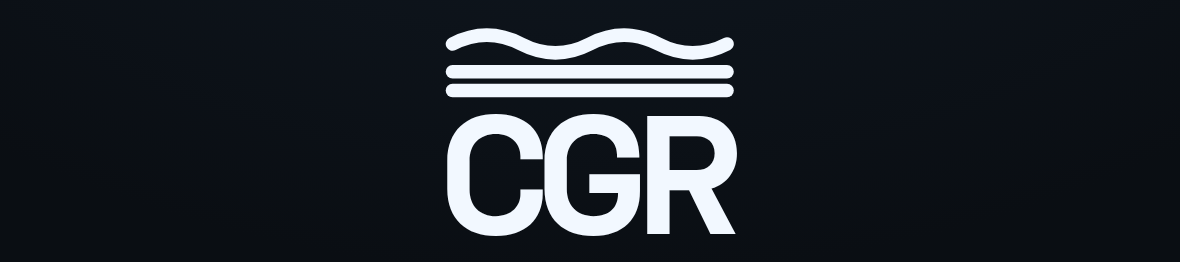
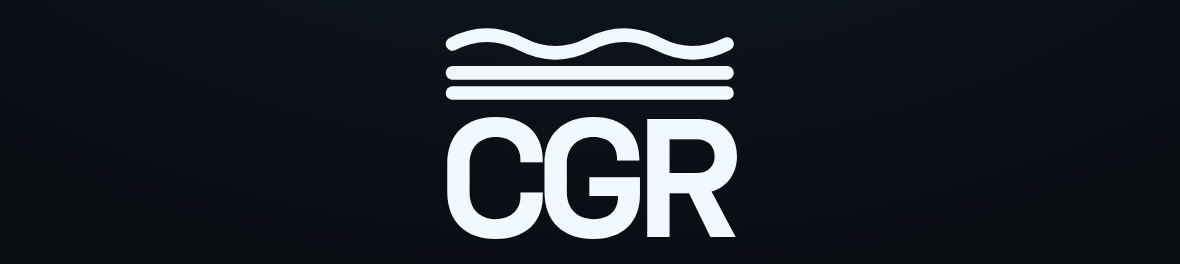
design(grade-lab): 5% wave gap, 5.5% line gap

diff --git a/design/grade-lab/lockup.js b/design/grade-lab/lockup.js
@@ -92,9 +92,9 @@ export function renderLockup(host, opts) {
   //   波浪↔波浪 = 1 个描边宽（两个波才分得开）
   //   波浪↔直线 = 半个描边宽（谷底到直线）
   //   直线↔直线 = 0.035 cap
-  // 波浪之间 4%，其余 4.5% —— 比等号稍紧一点，但视觉上是同一个量级。
+  // 波浪之间 5%，其余 5.5% —— 同一个量级，直线略松一点。
   const gapFor = (below, above) =>
-    below === 'wave' && above === 'wave' ? cap * 0.04 : cap * 0.045;
+    below === 'wave' && above === 'wave' ? cap * 0.05 : cap * 0.055;
 
   /*
    * 一行可能在另一行的上方，两行之间的距离不是简单“半高相加”：

diff --git a/prototype/FUTURE.md b/prototype/FUTURE.md
@@ -69,7 +69,7 @@
   波纹逐级消失（`≈` 两波 → `≃` 一波一横 → `≅` 一波两横 → `≡` 三横），不依赖字体覆盖。
 - **锁版规则**：符号与字同宽（取字母实测包围盒，再收半个描边做视觉修正）、描边 = 字干
   （cap height 的 11.5%）、记号底边离 cap line 0.16 cap；行距按行类型给：
-  波浪之间 4% cap，波浪到横线 / 横线之间 4.5% cap；波纹振幅 7.5% cap。
+  波浪之间 5% cap，波浪到横线 / 横线之间 5.5% cap；波纹振幅 7.5% cap。
   默认摆法是「整枚记号压在字上方」。
 - 恰好 100% 记为 **`IDN+`**（`IDN` 覆盖 99–100%，`IDN+` 只在满分时出现）。
 - 字母词表待定（当前提案 `APX / ASM / CGR / IDN`）。

diff --git a/design/grade-lab/README.md b/design/grade-lab/README.md
@@ -30,7 +30,7 @@
 | --- | --- |
 | 同宽 | 符号左右边界 = 三个字母的包围盒（再收半个描边做视觉修正） |
 | 同粗 | 描边 = 字干粗细（≈ cap height 的 11.5%） |
-| 对齐 | 记号底边离 cap line 0.16 cap；行距：波浪之间 **4% cap**，波浪到横线 / 横线之间 **4.5% cap** |
+| 对齐 | 记号底边离 cap line 0.16 cap；行距：波浪之间 **5% cap**，波浪到横线 / 横线之间 **5.5% cap** |
 | 振幅 | 波纹 7.5% cap：再大，两条波浪在“1 个描边宽”的间距下会视觉粘连 |
 
 符号也是自绘 SVG：`≈` 两波 → `≃` 一波一横 → `≅` 一波两横 → `≡` 三横。
